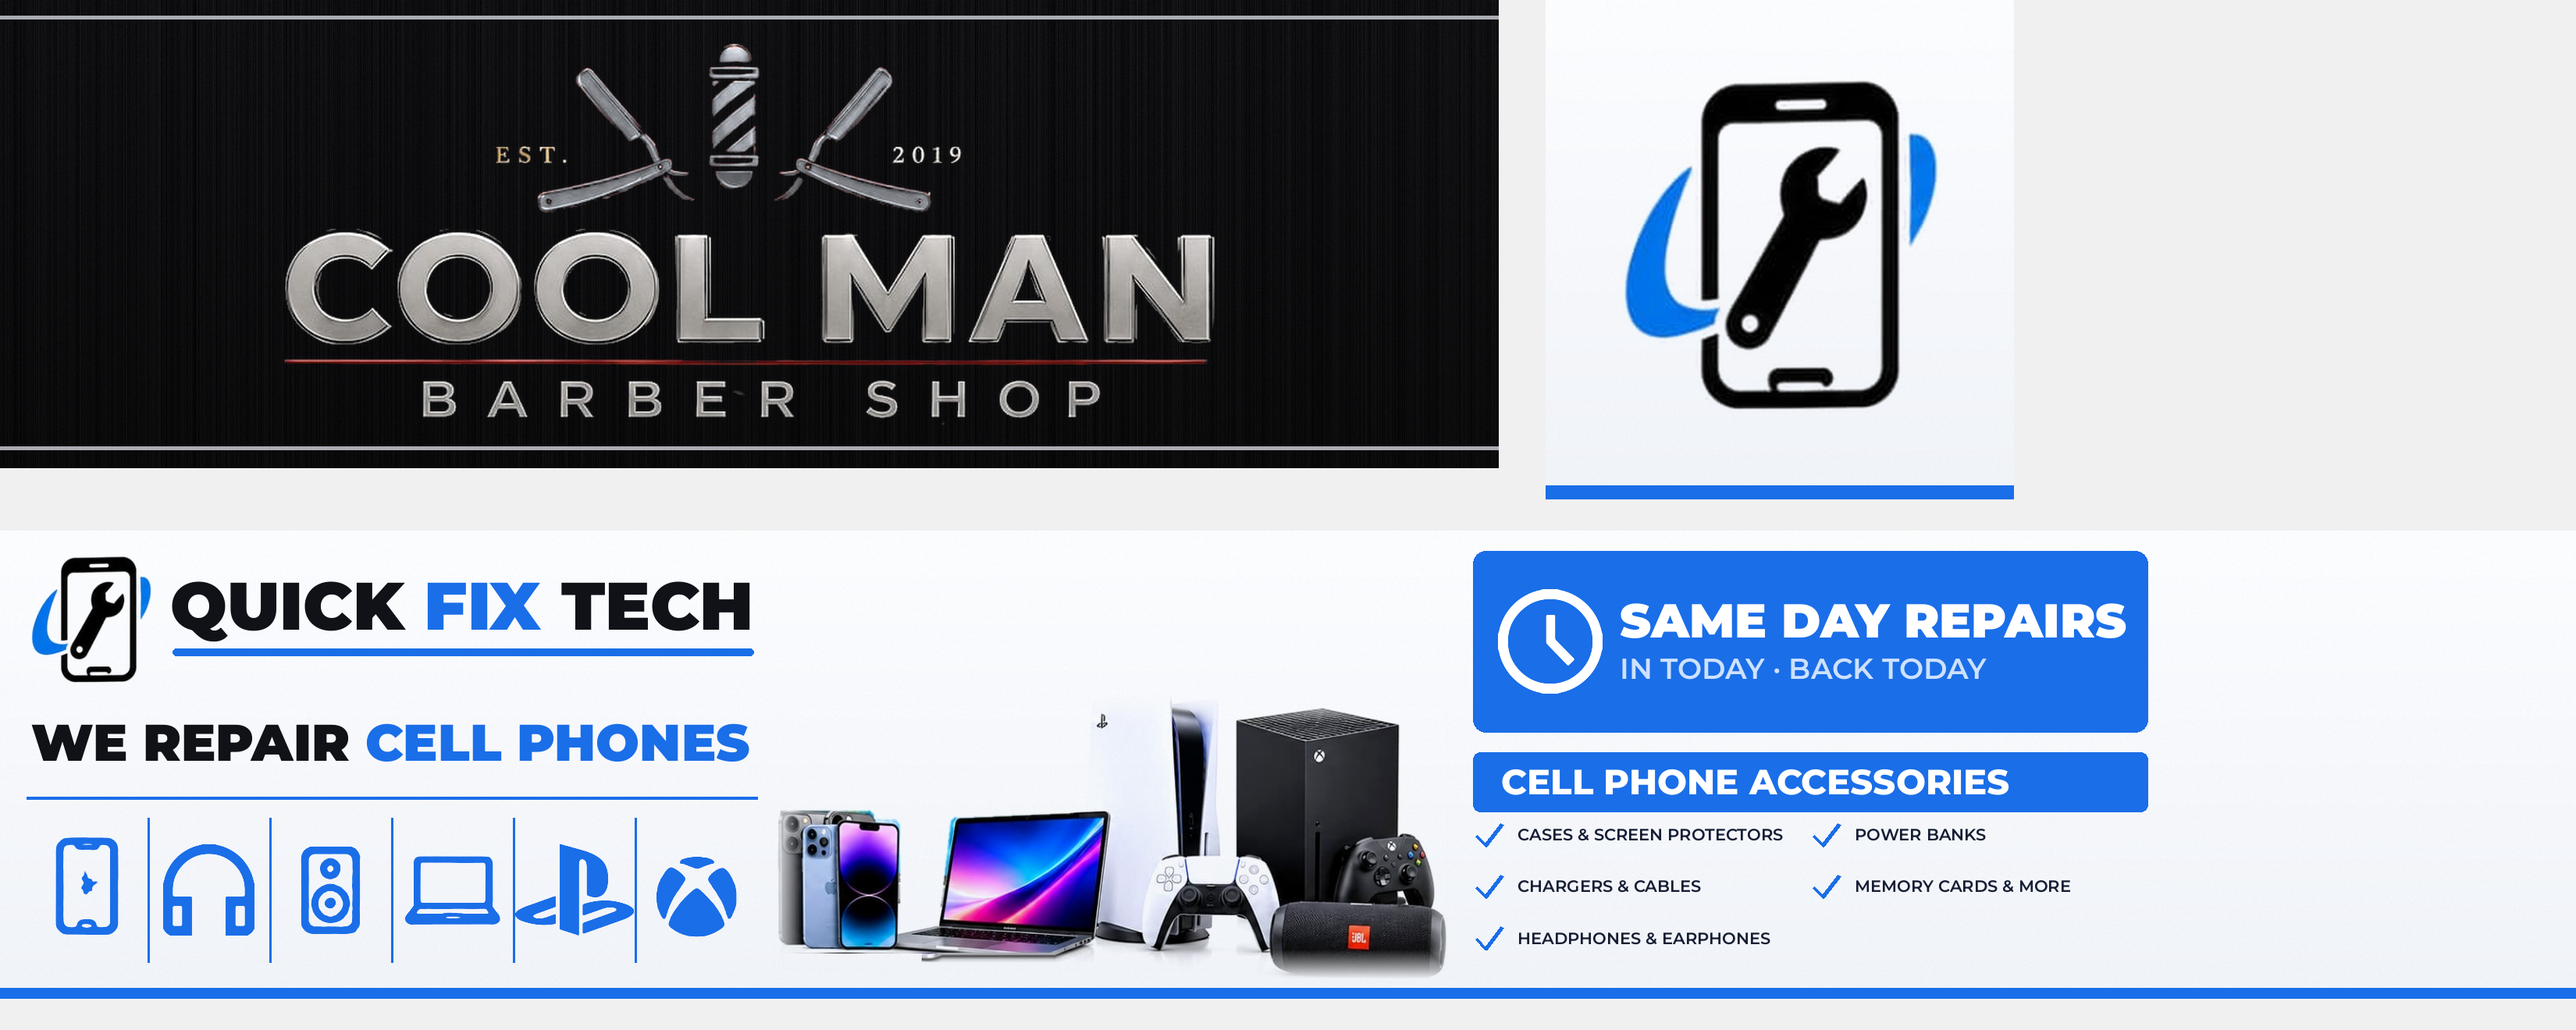
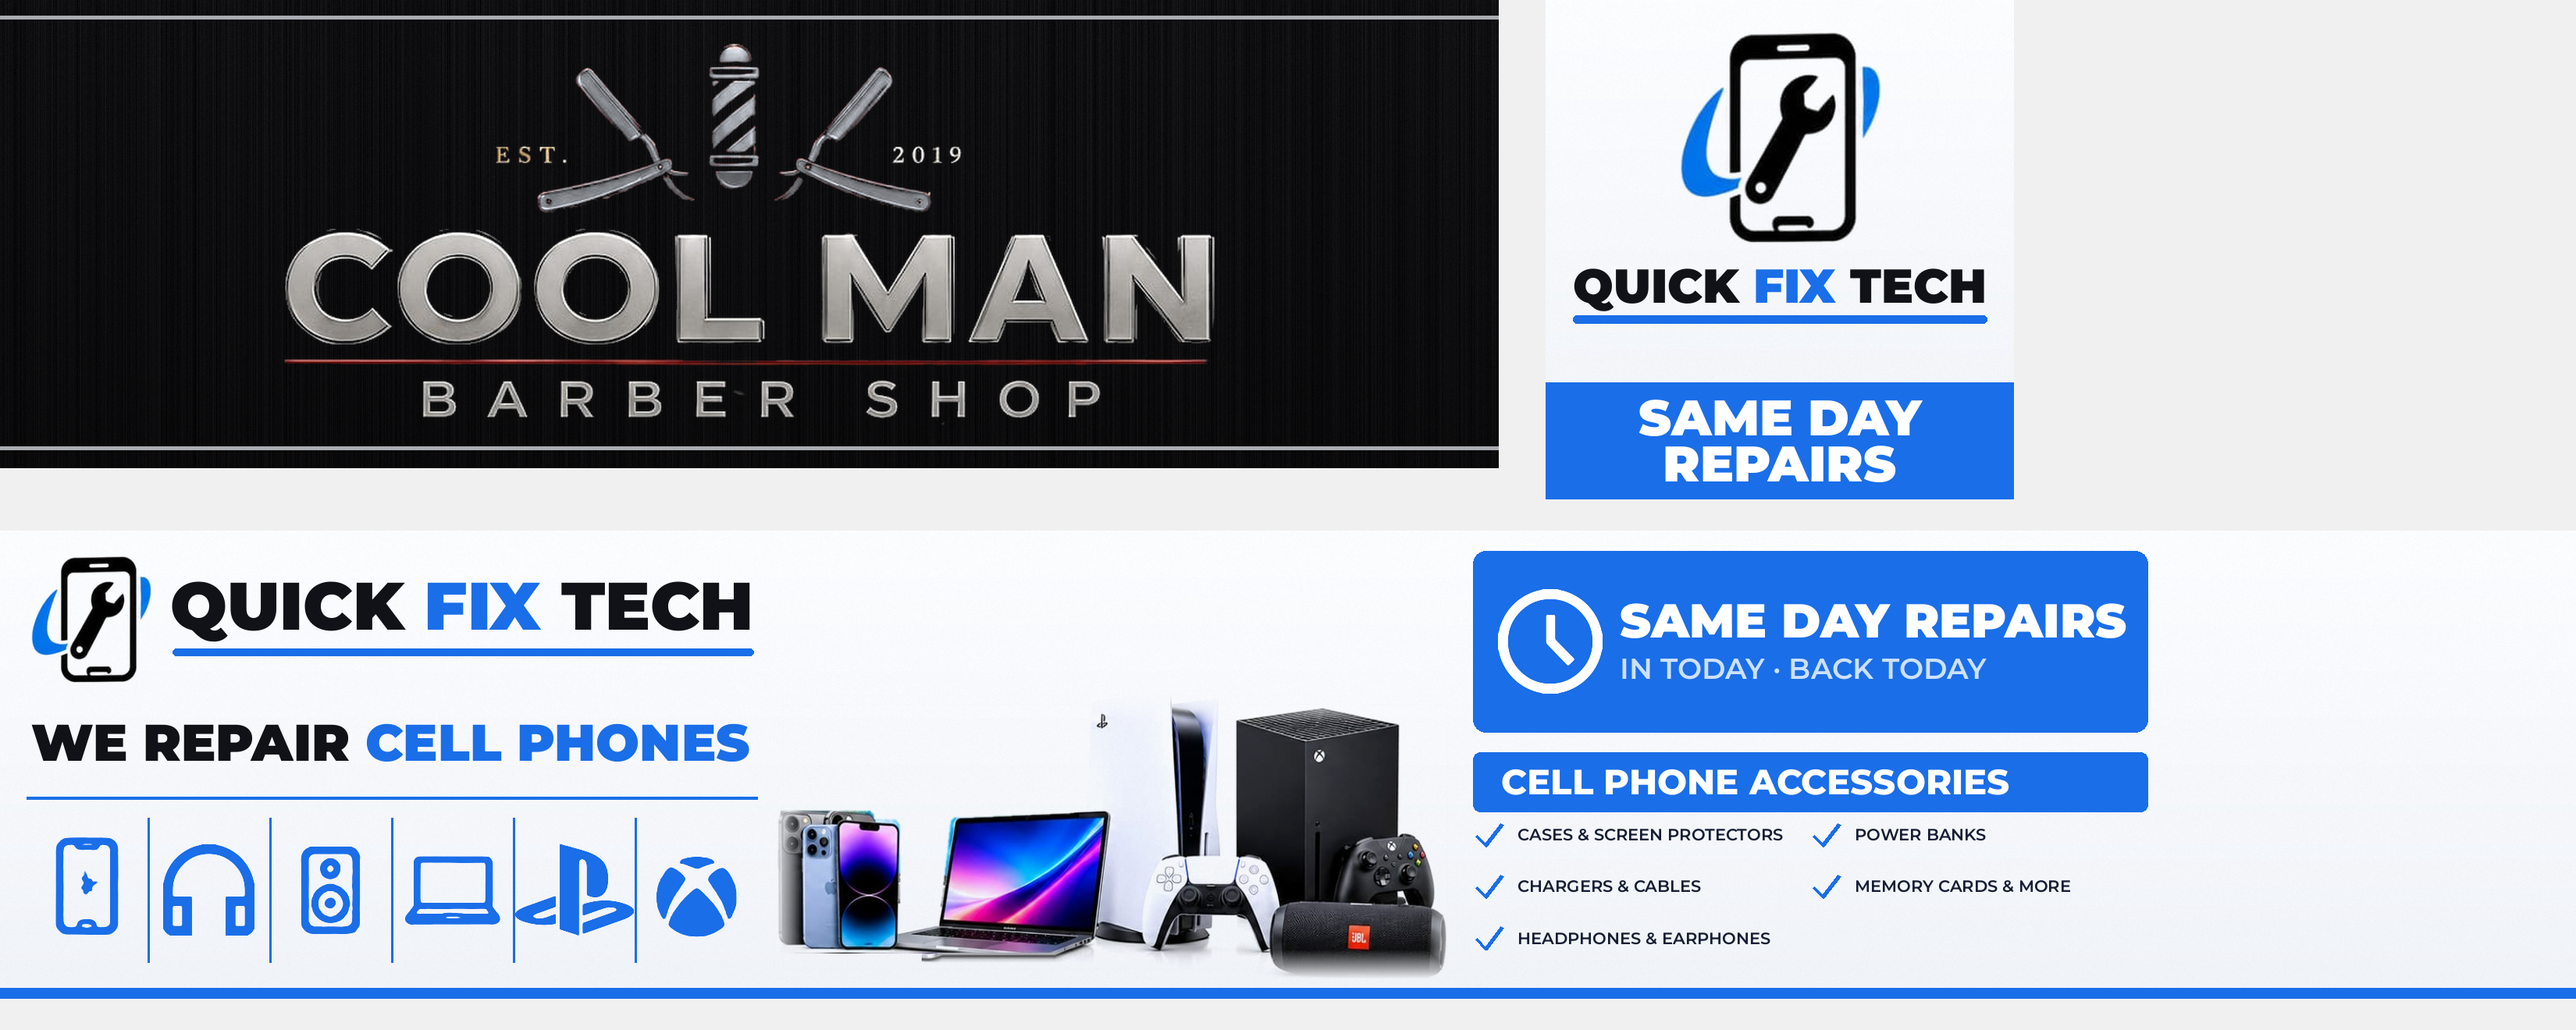
Corner sign: add Quick Fix Tech name and Same Day Repairs band
Claude-Session: https://claude.ai/code/session_013KRwQLAxoZ4CUmAfzsxCfh

Changed region(s): [[0.593, 0.0311, 0.7803, 0.497]]

diff --git a/signage-concepts/source/signs_fit.py b/signage-concepts/source/signs_fit.py
@@ -51,9 +51,22 @@ def barber():
     return b
 
 def corner():
-    w, h = BLUE_WH; t = white(w, h)
-    ImageDraw.Draw(t).rectangle((0, h-18, w, h), fill=QBLUE)
-    paste_c(t, qp.scale_fit(P.mark, w*0.72, h*0.72), (w/2, h/2 - 8))
+    """Small corner sign: repair mark, brand name, Same Day band."""
+    w, h = BLUE_WH; t = white(w, h); d = ImageDraw.Draw(t)
+    band_top = h - 150
+    mk = qp.scale_fit(P.mark, w*0.62, 290); paste_c(t, mk, (w/2, 30 + 290/2))
+    # brand name, two-tone like the main sign
+    f = qp.mont_fit(["QUICK FIX TECH"], w - 70, 70, 900, 0)
+    parts = (("QUICK ", qp.INK), ("FIX ", QBLUE), ("TECH", qp.INK))
+    tw = sum(d.textlength(p_, font=f) for p_, _ in parts); x = (w - tw)/2
+    cap = f.getbbox("H")[3] - f.getbbox("H")[1]; base = 345 + cap
+    for p_, col in parts:
+        d.text((x, base), p_, font=f, fill=col, anchor="ls"); x += d.textlength(p_, font=f)
+    d.rounded_rectangle(((w - tw)/2, base + 16, (w + tw)/2, base + 26), radius=5, fill=QBLUE)
+    # same-day band
+    d.rectangle((0, band_top, w, h), fill=QBLUE)
+    fs = qp.mont_fit(["SAME DAY", "REPAIRS"], w - 90, 104, 900, 0.3)
+    qp.text_block(d, ["SAME DAY", "REPAIRS"], fs, 0, band_top + (150 - qp.block_h(fs, 2, 0.3))/2, qp.WHITE, gap=0.3, align="c", width=w)
     return t
 
 def tech():
